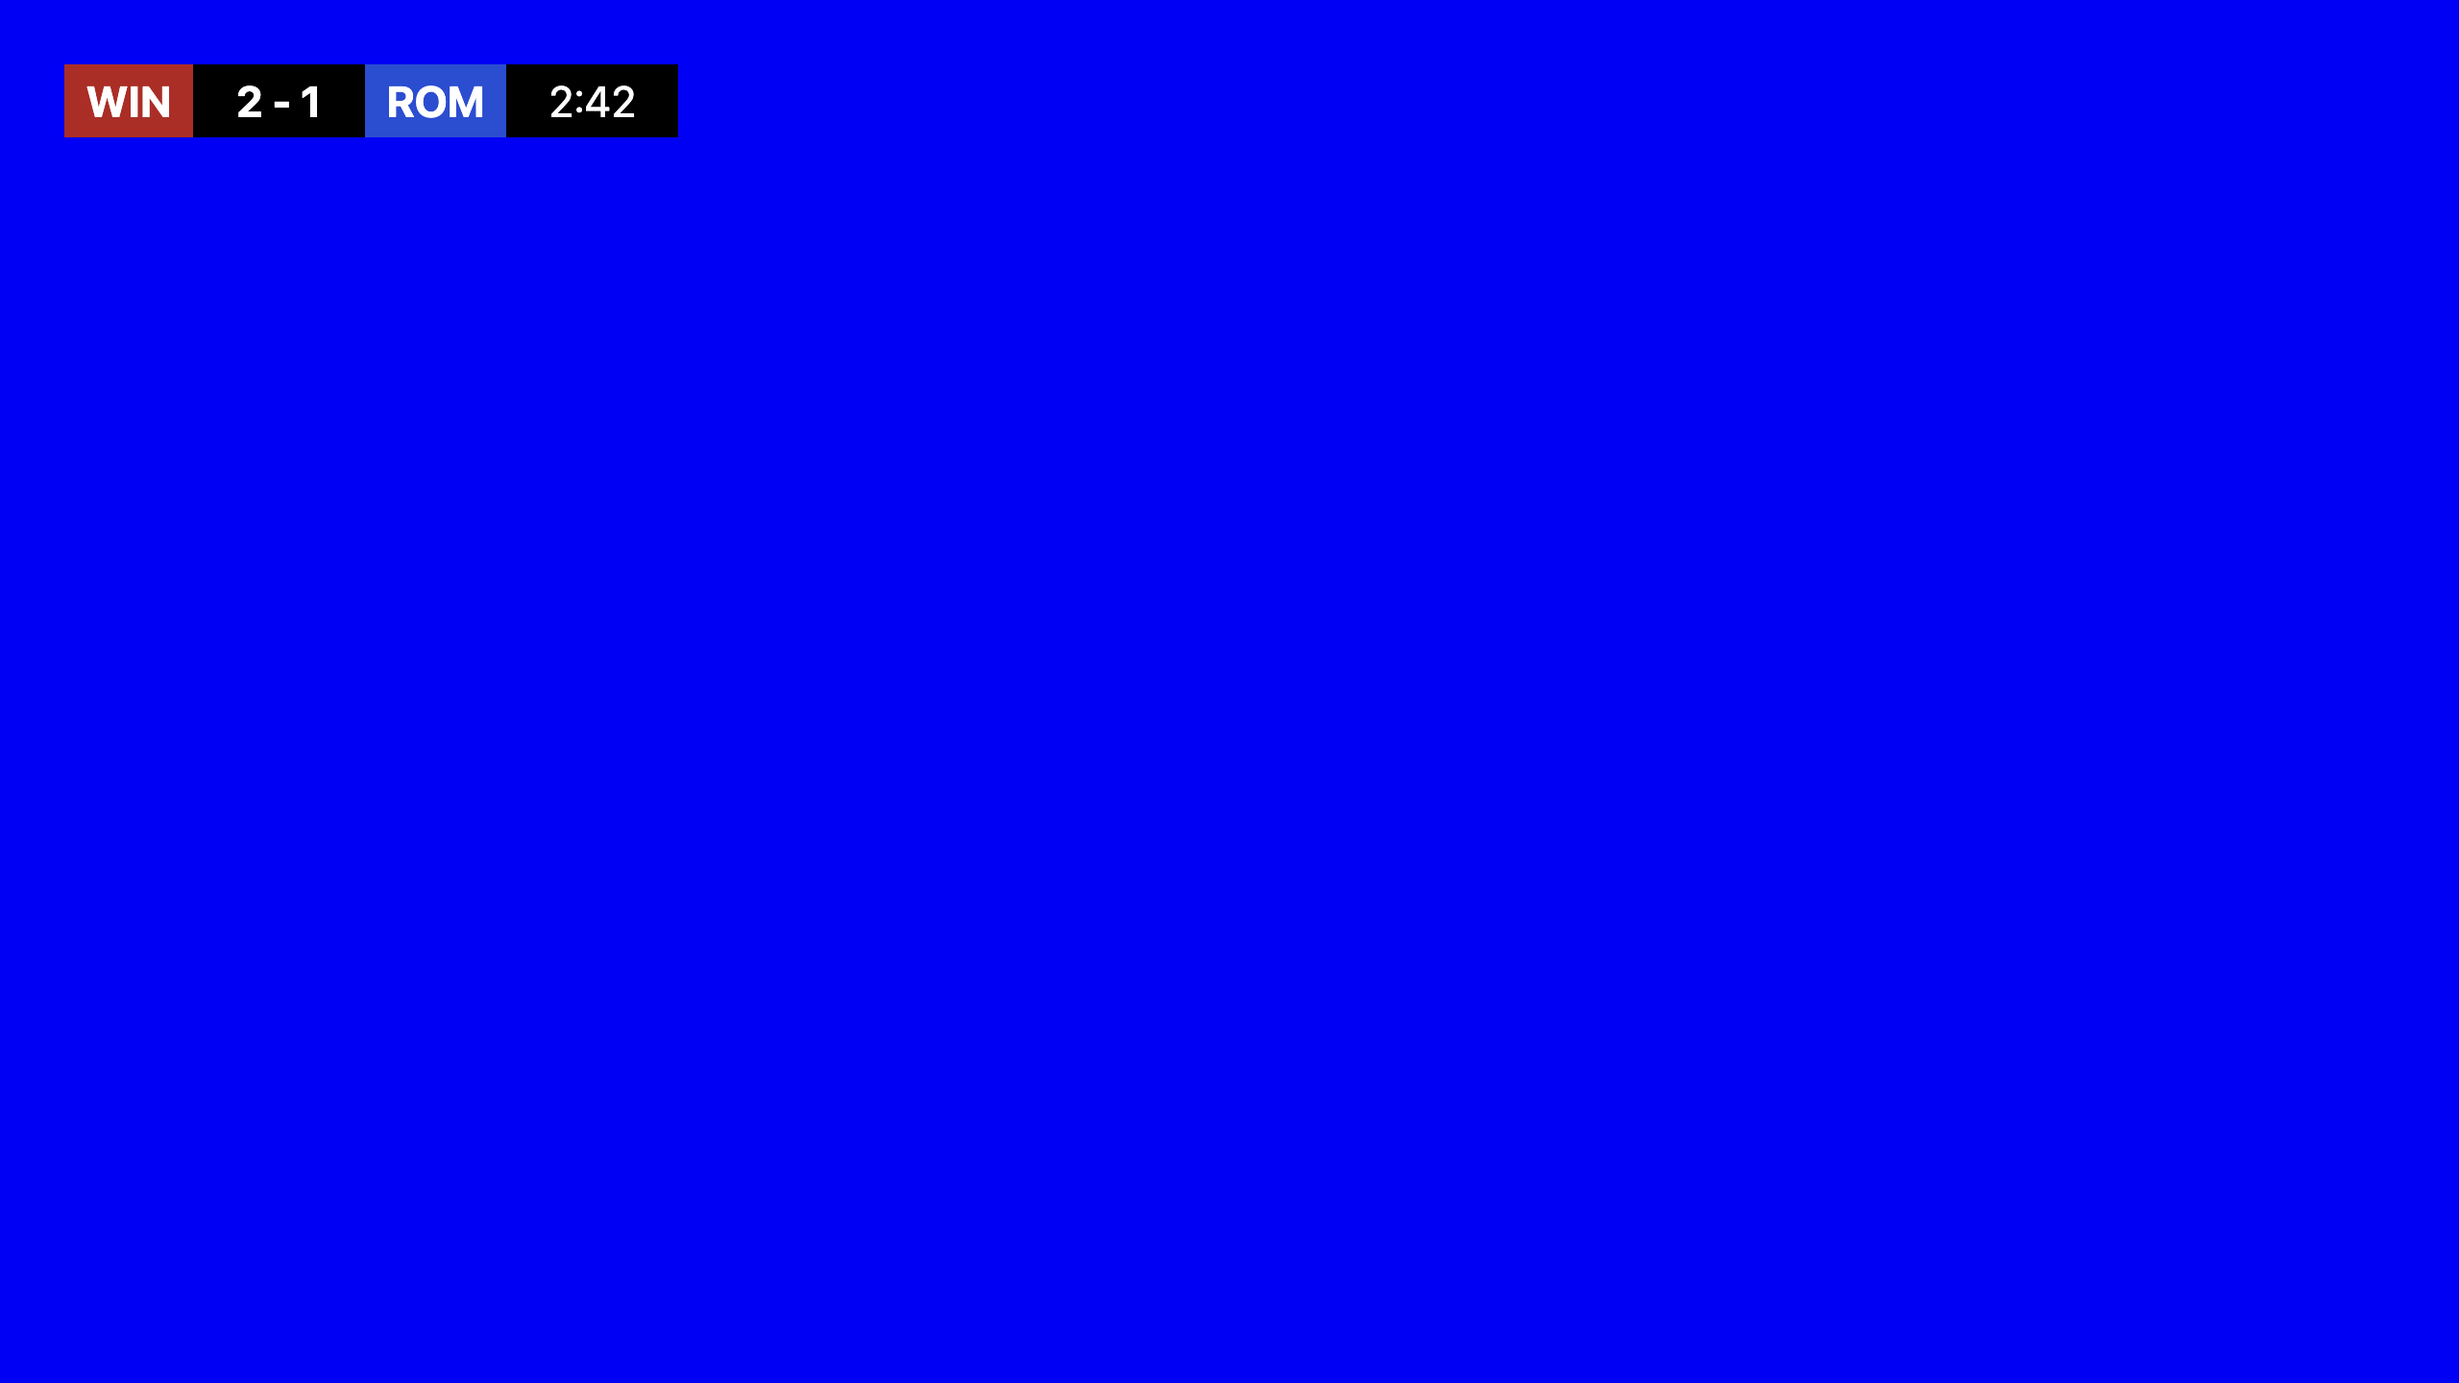
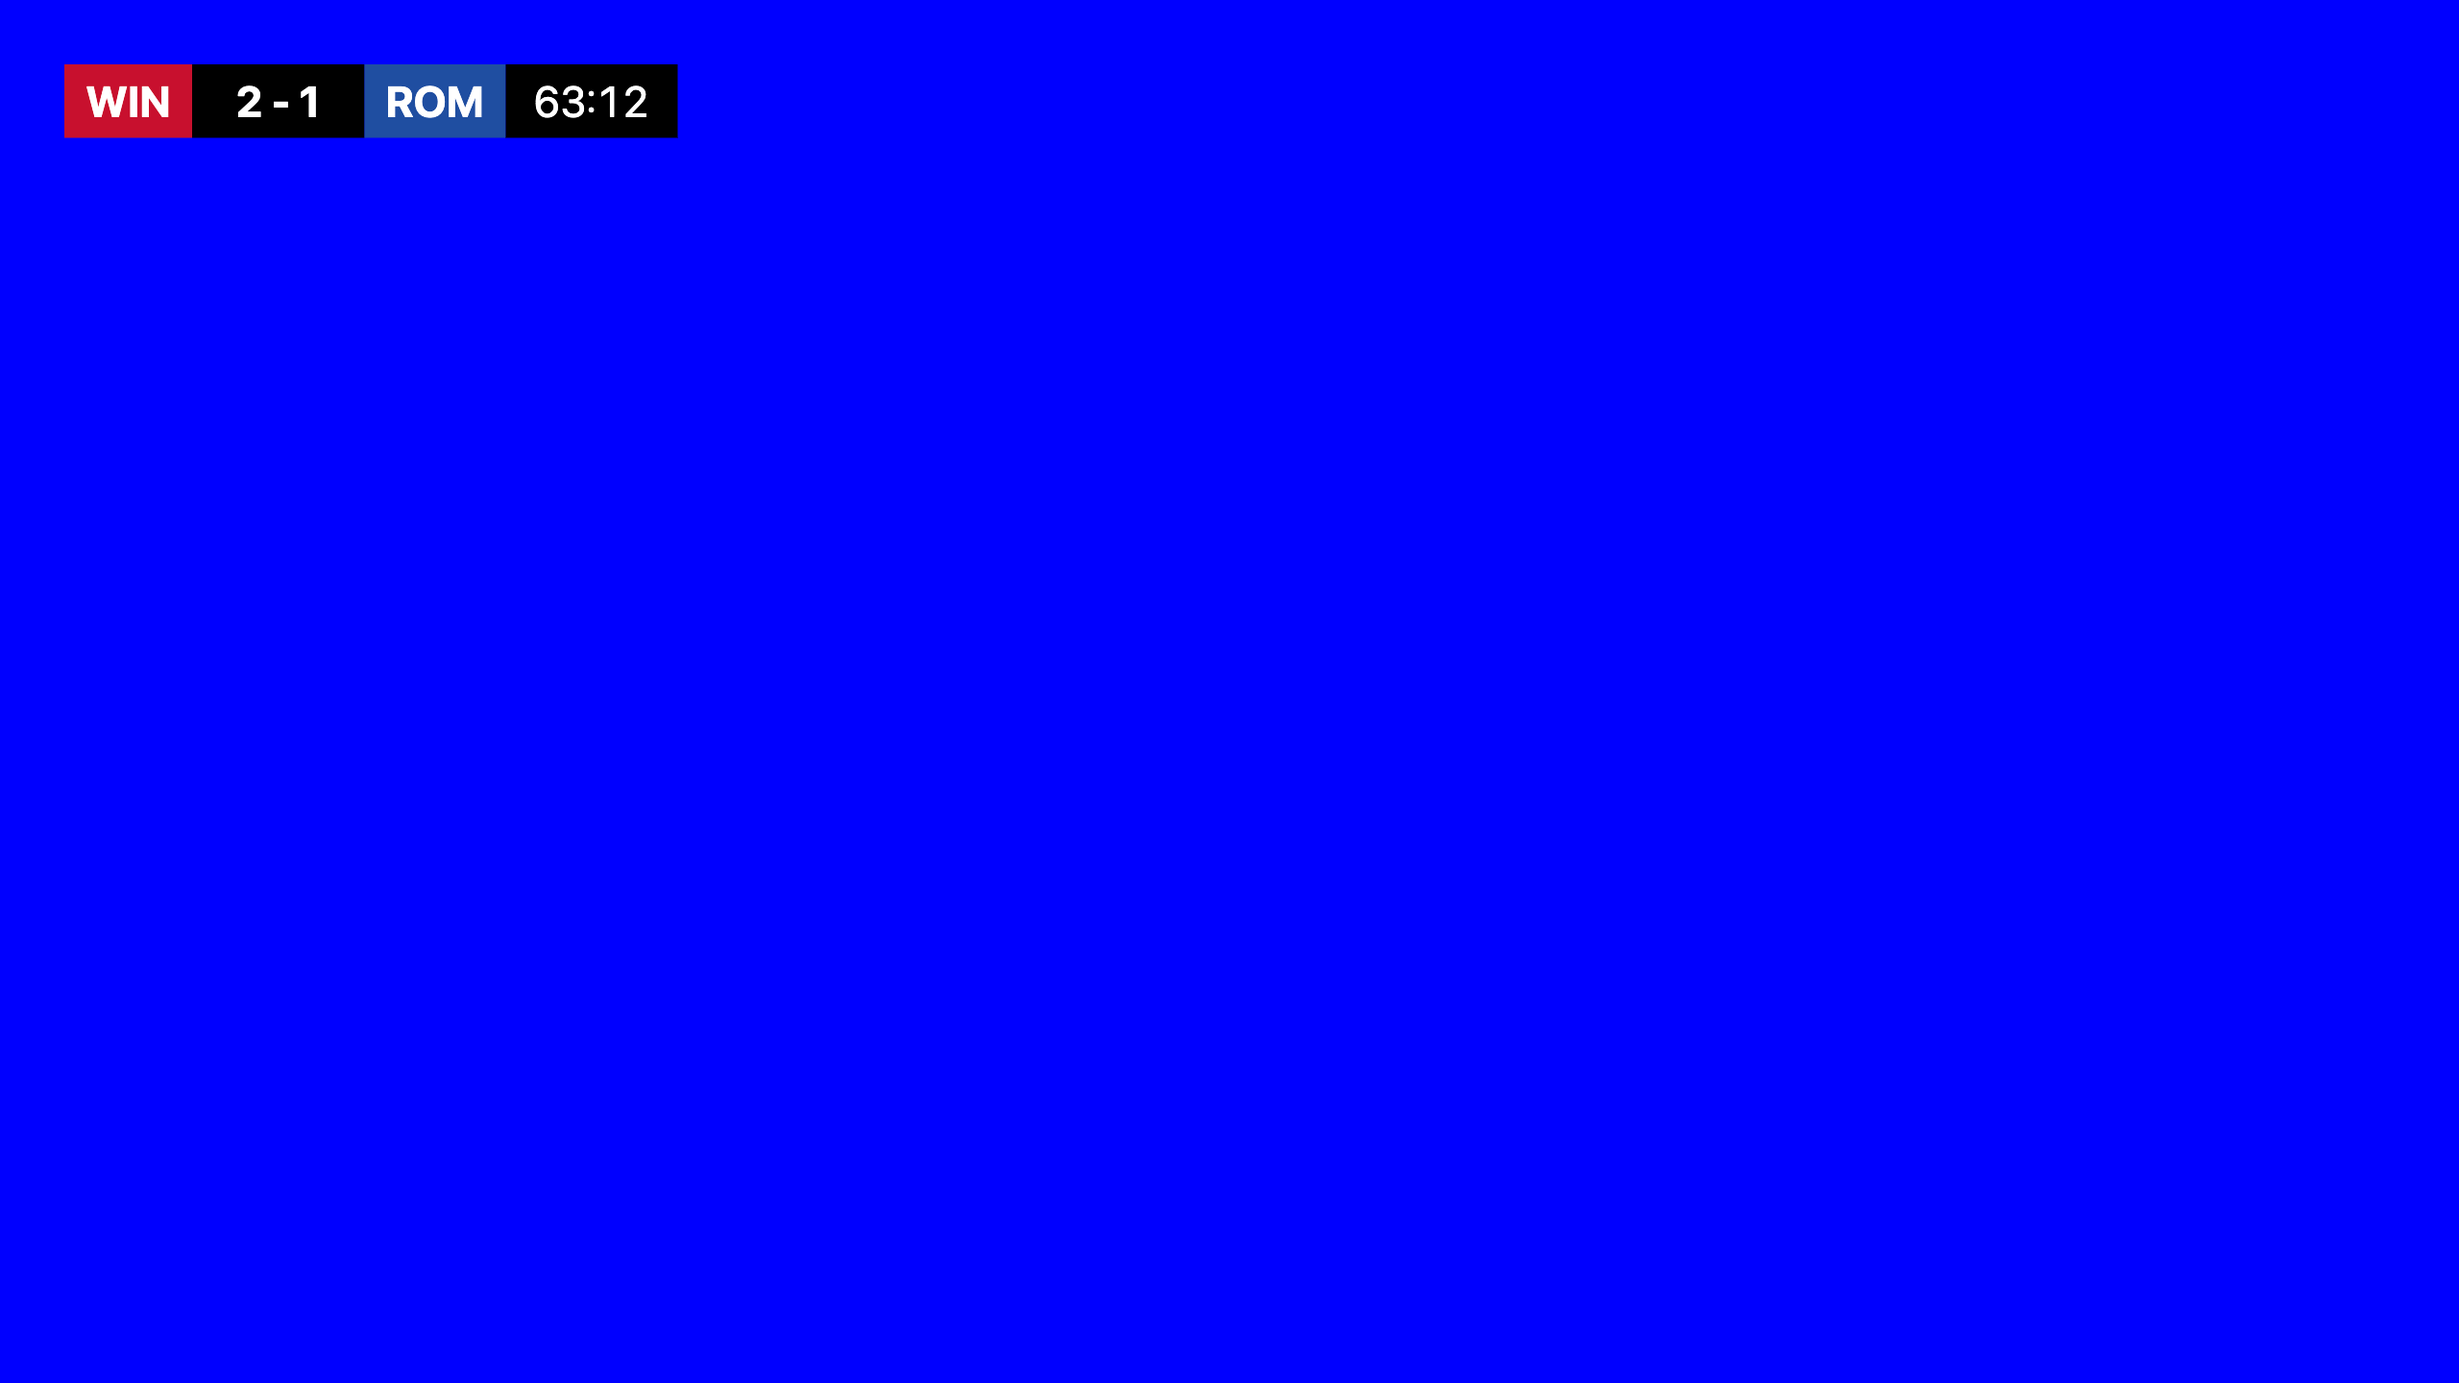
Website: use the captured screenshots and fill the screenshot slots
The dashboard, score bug and scoreboard screenshots are recaptured with
the line-ups feature (Winchester F.C. 2-1 Romsey United, second half).
The match settings, match title, goal banner and end screen slots now
have real captures, and four new slots hold the line-up screens, the
scorer picker and the Rotate screens panel. The match settings slot
becomes 16:10 to match the dashboard window. IMAGES.md marks the filled
slots as done and keeps the prompts for the photo slots still to make.

Changed region(s): [[0.125, 0.0312, 0.2812, 0.125], [0.0, 0.0312, 0.0938, 0.125]]

diff --git a/website/src/lib/image-slots.ts b/website/src/lib/image-slots.ts
@@ -60,31 +60,59 @@ export const IMAGE_SLOTS = {
   },
   "match-settings": {
     width: 1600,
-    height: 1200,
-    ratio: "4:3",
-    alt: "The PlayOverlay Match Settings panel with team names, colours, logos and match details filled in",
-    summary: "Screenshot: the Match Settings panel, filled in",
+    height: 1000,
+    ratio: "16:10",
+    alt: "The Match Settings panel open beside the dashboard, showing the home team's line-up of numbered players with the Add player and Paste a list buttons",
+    summary: "Screenshot: the Match Settings panel with a team's line-up",
   },
   "screen-match-title": {
     width: 2560,
     height: 1440,
     ratio: "16:9",
-    alt: "The PlayOverlay match title screen showing both teams, the venue and the kick-off time",
+    alt: "The match title screen: the venue, Kick-off 18:20 and Starts in 41:18 above Winchester F.C. and Romsey United in their club colours",
     summary: "Screenshot: the match title screen on the display output",
   },
   "screen-goal-banner": {
     width: 2560,
     height: 1440,
     ratio: "16:9",
-    alt: "The PlayOverlay goal banner on air, showing the scoring team and the minute",
+    alt: "The display output with the score bug reading WIN 2-1 ROM at 63:12 and a goal banner reading GOAL, Winchester F.C., 9 Ali Smith, 23'",
     summary: "Screenshot: the goal banner on the display output",
   },
   "screen-end-screen": {
     width: 2560,
     height: 1440,
     ratio: "16:9",
-    alt: "The PlayOverlay end screen showing the final score and each team's scorers with their minutes",
+    alt: "The end screen: Winchester F.C. 2-1 Romsey United, with Ali Smith 23', 62' under the home team and Tom Baker 39' under the away team",
     summary: "Screenshot: the end screen with scorers listed",
+  },
+  "screen-home-lineup": {
+    width: 2560,
+    height: 1440,
+    ratio: "16:9",
+    alt: "The Home Line-up screen: Winchester F.C. above fourteen players in two columns, each with a shirt number in the club's red",
+    summary: "Screenshot: the home line-up screen on the display output",
+  },
+  "screen-away-lineup": {
+    width: 2560,
+    height: 1440,
+    ratio: "16:9",
+    alt: "The Away Line-up screen: Romsey United above eleven players in one column, each with a shirt number in the club's blue",
+    summary: "Screenshot: the away line-up screen on the display output",
+  },
+  "scorer-picker": {
+    width: 1600,
+    height: 1000,
+    ratio: "16:10",
+    alt: "The Goals panel with a scorer being typed and the hint: Not in the line-up? Just type a name. The goal banner in the preview reads 9 Ali Smith 23'",
+    summary: "Screenshot: the Goals panel with the scorer list open",
+  },
+  "rotation-panel": {
+    width: 1600,
+    height: 1000,
+    ratio: "16:10",
+    alt: "The dashboard with the Rotate screens panel open under Display Controls, explaining that the display shows each chosen screen in turn until you choose a screen or start the clock",
+    summary: "Screenshot: the Rotate screens panel on the dashboard",
   },
 } satisfies Record<string, ImageSlotDefinition>;
 

diff --git a/website/src/lib/screenshots.ts b/website/src/lib/screenshots.ts
@@ -8,11 +8,11 @@ import scoreboard from "../../public/screenshots/scoreboard.png";
 export const SCREENSHOTS = {
   dashboard: {
     src: dashboard,
-    alt: "The PlayOverlay dashboard: a preview of the output, screen buttons, the match clock with phase buttons, both teams' scores and the penalties panel",
+    alt: "The PlayOverlay dashboard: a preview of the output, the screen buttons including Home Line-up and Away Line-up, the Rotate screens panel, the match clock with phase buttons, both teams' scores and the penalties panel",
   },
   scoreBug: {
     src: scoreBug,
-    alt: "The display output: a score bug reading WIN 2-1 ROM with the clock at 2:42, in the top-left of a solid blue key-colour background",
+    alt: "The display output: a score bug reading WIN 2-1 ROM with the clock at 63:12, in the top-left of a solid blue key-colour background",
   },
   scoreboard: {
     src: scoreboard,

diff --git a/website/IMAGES.md b/website/IMAGES.md
@@ -27,7 +27,7 @@ instead. The check happens when the page is built, so add the file and rebuild
   paste a real PlayOverlay screenshot onto any screen in the picture. The
   prompts tell the generator to leave screens blank because AI image tools
   invent fake, unreadable interfaces.
-- **Screenshot slots** (6 to 10) show the app itself. These must be real
+- **Screenshot slots** (6 to 14) show the app itself. These must be real
   screenshots: a generated picture of the interface would be wrong in the
   details people use to follow the guide. Each has capture instructions
   instead of a prompt.
@@ -38,18 +38,31 @@ blue) so the site stays consistent.
 
 ## Summary
 
-| # | Slot (file name) | Size | Ratio | Kind | Used on |
-| - | ---------------- | ---- | ----- | ---- | ------- |
-| 1 | `hero-match` | 2400 × 1350 | 16:9 | Photo + composite | Home hero |
-| 2 | `setup-atem` | 1600 × 1200 | 4:3 | Photo + composite | Home output options (cropped to 16:10), Output setup |
-| 3 | `phone-remote` | 1200 × 1500 | 4:5 | Photo + composite | Home features, Phone remote |
-| 4 | `venue-scoreboard` | 1920 × 1080 | 16:9 | Photo + composite | Home output options (cropped to 16:10), Output setup |
-| 5 | `stream-deck` | 1600 × 1200 | 4:3 | Photo + composite | Keyboard shortcuts and Stream Deck |
-| 6 | `obs-browser-source` | 1920 × 1200 | 16:10 | Screenshot | Home output options, Output setup |
-| 7 | `match-settings` | 1600 × 1200 | 4:3 | Screenshot | Match settings |
-| 8 | `screen-match-title` | 2560 × 1440 | 16:9 | Screenshot | Screens |
-| 9 | `screen-goal-banner` | 2560 × 1440 | 16:9 | Screenshot | Home features, Running a match |
-| 10 | `screen-end-screen` | 2560 × 1440 | 16:9 | Screenshot | Screens |
+| # | Slot (file name) | Size | Ratio | Kind | Used on | Status |
+| - | ---------------- | ---- | ----- | ---- | ------- | ------ |
+| 1 | `hero-match` | 2400 × 1350 | 16:9 | Photo + composite | Home hero | Needed |
+| 2 | `setup-atem` | 1600 × 1200 | 4:3 | Photo + composite | Home output options (cropped to 16:10), Output setup | Needed |
+| 3 | `phone-remote` | 1200 × 1500 | 4:5 | Photo + composite | Home features, Phone remote | Needed |
+| 4 | `venue-scoreboard` | 1920 × 1080 | 16:9 | Photo + composite | Home output options (cropped to 16:10), Output setup | Needed |
+| 5 | `stream-deck` | 1600 × 1200 | 4:3 | Photo + composite | Keyboard shortcuts and Stream Deck | Needed |
+| 6 | `obs-browser-source` | 1920 × 1200 | 16:10 | Screenshot | Home output options, Output setup | Needed |
+| 7 | `match-settings` | 1600 × 1000 | 16:10 | Screenshot | Match settings, Line-ups | Done: `match-settings.png` |
+| 8 | `screen-match-title` | 2560 × 1440 | 16:9 | Screenshot | Screens | Done: `screen-match-title.png` |
+| 9 | `screen-goal-banner` | 2560 × 1440 | 16:9 | Screenshot | Home features, Running a match | Done: `screen-goal-banner.png` |
+| 10 | `screen-end-screen` | 2560 × 1440 | 16:9 | Screenshot | Screens | Done: `screen-end-screen.png` |
+| 11 | `screen-home-lineup` | 2560 × 1440 | 16:9 | Screenshot | Home features, Line-ups | Done: `screen-home-lineup.png` |
+| 12 | `screen-away-lineup` | 2560 × 1440 | 16:9 | Screenshot | Screens | Done: `screen-away-lineup.png` |
+| 13 | `scorer-picker` | 1600 × 1000 | 16:10 | Screenshot | Line-ups | Done: `scorer-picker.png` |
+| 14 | `rotation-panel` | 1600 × 1000 | 16:10 | Screenshot | Line-ups | Done: `rotation-panel.png` |
+
+The three files in `public/screenshots/` (`dashboard.png` at 1600 × 1000,
+`score-bug.png` and `scoreboard.png` at 2560 × 1440) were recaptured with the
+line-ups feature: the dashboard shows the Home Line-up and Away Line-up
+buttons and the Rotate screens panel. All the captured screenshots show
+Winchester F.C. 2-1 Romsey United in the second half.
+
+To replace a finished screenshot, recapture it the same way and save it over
+the existing file. The capture instructions below are kept for that.
 
 ---
 
@@ -161,19 +174,19 @@ A photorealistic close-up of a compact USB control pad with fifteen square backl
   4. Open the browser source's Properties so the URL is visible, and take a
      screenshot of the OBS window at 1920 × 1200 (or crop to 16:10).
 
-## 7. `match-settings` (screenshot)
+## 7. `match-settings` (screenshot, done)
 
-- **Size:** 1600 × 1200 px, 4:3
-- **Used on:** the Match settings guide, at the top.
-- **Should show:** the Match Settings panel open, filled in: Winchester F.C.
-  (WIN, red) and Romsey United (ROM, blue) with logos, a venue, kick-off time
-  and half length. Ideally the **Save as club** and **Load a saved club**
-  controls are visible.
+- **Size:** 1600 × 1000 px, 16:10 (the dashboard window size)
+- **Used on:** the Match settings guide, at the top, and the Line-ups guide.
+- **Shows:** the Match Settings panel open over the dimmed dashboard, with
+  Winchester F.C.'s line-up of 14 numbered players, the **Add player** and
+  **Paste a list** buttons, and **Load a saved club** and **Save as club** for
+  the away team below.
 - **How to capture:** open Match Settings from the people icon on the
-  dashboard, fill it in, and screenshot the panel (on a Mac,
-  Cmd+Shift+4 then Space, and click the window). Crop to 4:3 around the panel.
+  dashboard, fill in the home team's line-up, scroll so the Line-up section
+  is in view, and screenshot the whole dashboard window at 1600 × 1000.
 
-## 8. `screen-match-title` (screenshot)
+## 8. `screen-match-title` (screenshot, done)
 
 - **Size:** 2560 × 1440 px, 16:9 (the same as the existing screenshots)
 - **Used on:** the Screens guide.
@@ -184,19 +197,20 @@ A photorealistic close-up of a compact USB control pad with fifteen square backl
   **Match Title** on air, and screenshot the display window full screen. Take
   it the same way as `public/screenshots/score-bug.png` so they match.
 
-## 9. `screen-goal-banner` (screenshot)
+## 9. `screen-goal-banner` (screenshot, done)
 
 - **Size:** 2560 × 1440 px, 16:9
 - **Used on:** the home page features ("Every goal logged") and the Running a
   match guide.
-- **Should show:** the display window with the score bug and the goal banner
-  on air after a goal, showing the team and minute.
+- **Shows:** the display window with the score bug and the goal banner on
+  air, reading "GOAL Winchester F.C. 9 Ali Smith 23'". The scorer was picked
+  from the line-up and the banner brought back with **Show on air**.
 - **How to capture:** start the first half, let the clock run a minute or two,
   press **Home Team Scored**, and screenshot the display window while the
   banner is showing. If it disappears too quickly, use **Show on air** next to
   the goal in the Goals panel to bring it back.
 
-## 10. `screen-end-screen` (screenshot)
+## 10. `screen-end-screen` (screenshot, done)
 
 - **Size:** 2560 × 1440 px, 16:9
 - **Used on:** the Screens guide.
@@ -205,3 +219,47 @@ A photorealistic close-up of a compact USB control pad with fifteen square backl
 - **How to capture:** in a test match, log a few goals with the clock
   running, add scorer names in the Goals panel, stop the clock, put **End
   Screen** on air, and screenshot the display window.
+
+## 11. `screen-home-lineup` (screenshot, done)
+
+- **Size:** 2560 × 1440 px, 16:9
+- **Used on:** the home page features ("Line-ups and scorers from the team
+  sheet") and the Line-ups guide.
+- **Shows:** the Home Line-up screen for Winchester F.C., 14 players in two
+  columns with the shirt numbers in the club's red, on the blue key colour.
+- **How to capture:** enter more than eleven players for the home team in
+  Match Settings, put **Home Line-up** on air, and screenshot the display
+  window full screen, the same way as `public/screenshots/score-bug.png`.
+
+## 12. `screen-away-lineup` (screenshot, done)
+
+- **Size:** 2560 × 1440 px, 16:9
+- **Used on:** the Screens guide.
+- **Shows:** the Away Line-up screen for Romsey United, eleven players in a
+  single column with the shirt numbers in the club's blue.
+- **How to capture:** as for `screen-home-lineup`, with eleven or fewer away
+  players so the single-column layout is shown.
+
+## 13. `scorer-picker` (screenshot, done)
+
+- **Size:** 1600 × 1000 px, 16:10
+- **Used on:** the Line-ups guide ("Picking the scorer").
+- **Shows:** the dashboard with the Goals panel in view, a scorer being typed
+  next to a goal and the hint "Not in the line-up? Just type a name." under
+  the field. The preview shows the goal banner with "9 Ali Smith 23'".
+- **How to capture:** with both line-ups entered and a few goals logged,
+  scroll the dashboard to the Goals panel, click into a scorer field, type a
+  couple of letters that match no player, and screenshot the dashboard window.
+
+## 14. `rotation-panel` (screenshot, done)
+
+- **Size:** 1600 × 1000 px, 16:10
+- **Used on:** the Line-ups guide ("Rotating screens").
+- **Shows:** the dashboard with the **Rotate screens** panel opened under
+  Display Controls and its description in view. The screen ticks, **Seconds
+  per screen** and **Start automatically at half-time** are below the bottom
+  edge of this capture.
+- **Better version:** scroll the left column so the whole panel is in view,
+  with a few screens ticked, the seconds set and the automatic start switched
+  on, and screenshot the dashboard window at 1600 × 1000. Save it over
+  `public/images/rotation-panel.png`.
